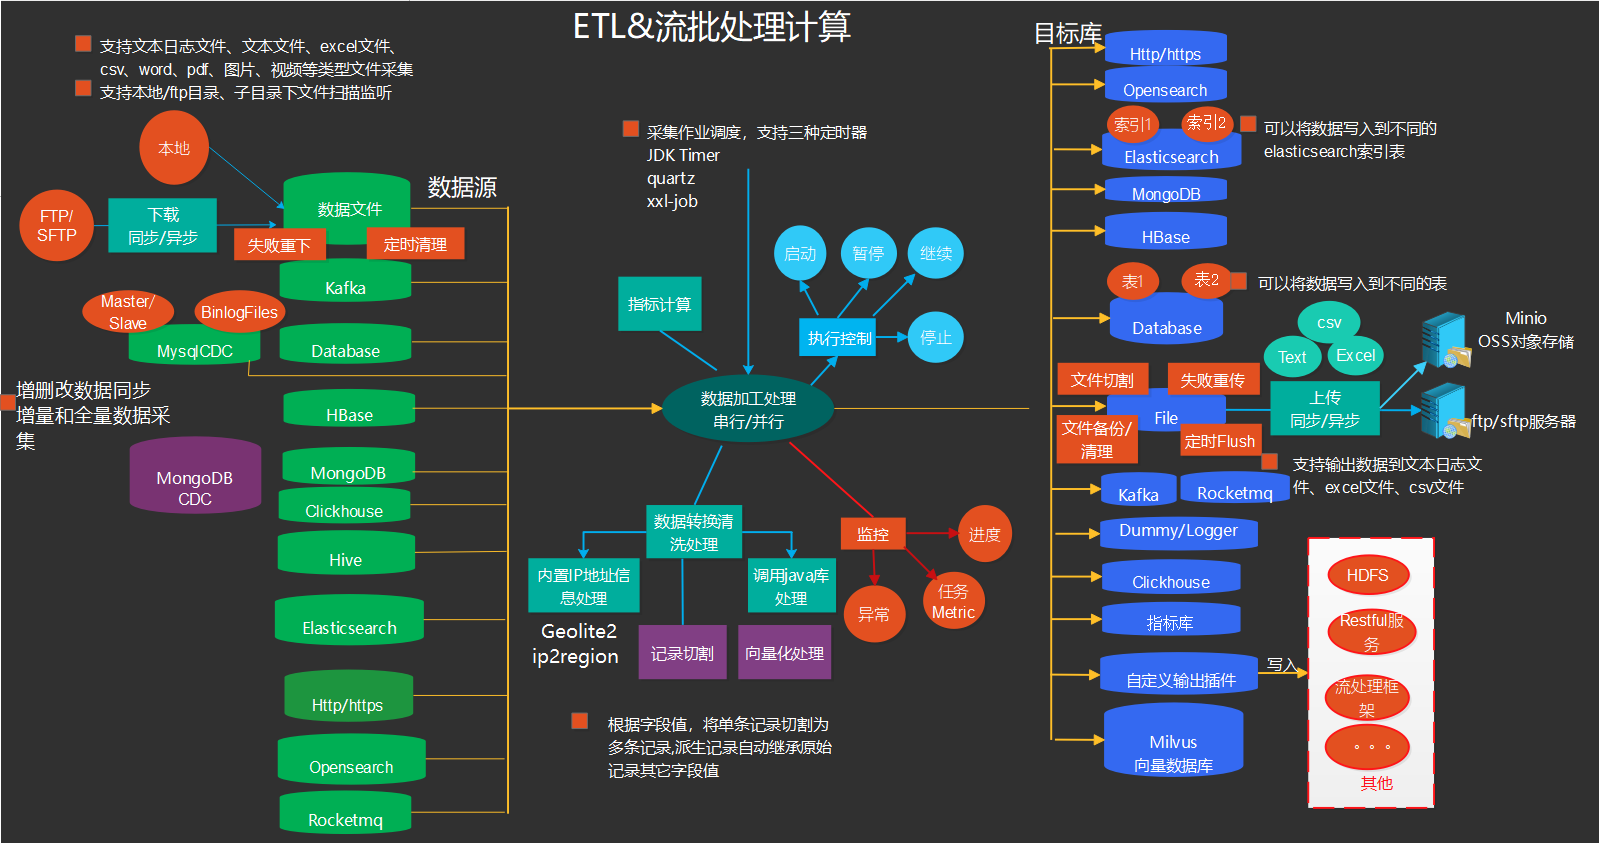
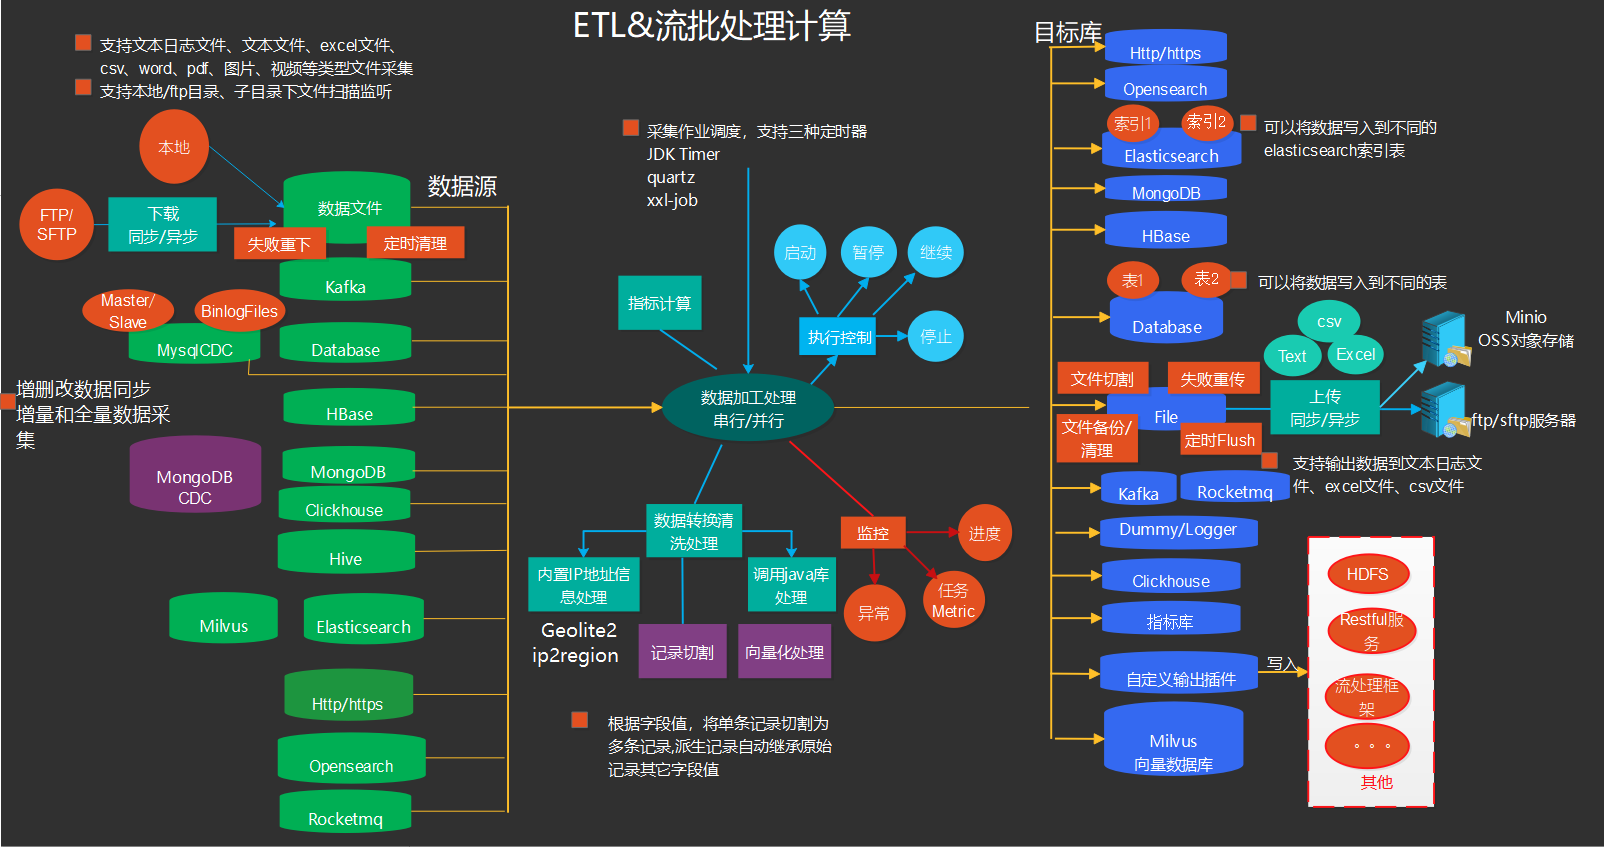
http proxy组件优化：优化监控探测连接池数量计算算法 完善文档和案例

diff --git a/docs/changelog.md b/docs/changelog.md
@@ -42,15 +42,17 @@
 ```
 
 ETL插件依赖的maven坐标，参考文档：[在工程中导入插件maven坐标](https://esdoc.bbossgroups.com/#/db-es-tool?id=_11-在工程中导入bboss-maven坐标)
-# v7.2.9 功能改进-20241122
+# v7.2.9 功能改进-20241125
 1. 新增Rocketmq输入插件：从Rocketmq接收数据，支持同时设置多个topic主题，指定消息消费位置等参数；数据通过加工处理后，通过其他输出插件进行输出。
 2. 新增Rocketmq输出插件：将数据源采集的数据，进行加工处理后，通过Rocketmq输出插件将处理后的数据发送到Rocketmq
-3. 完善Kafka输入输出插件：完善kafk输入输出插件，不注册jvm shutdown hook
-4. 完善kafka输入插件：增加消息元数据信息
-5. 调小http链接池健康检查数据源连接池大小
-6. 指标计算改进：新增指标key对象MetricKey,相关接口将String metricKey调整为MetricKey metricKey，调整相关案例代码 
-7. 项目和案例源码jdk 18+兼容性调整，兼容jdk 18+版本 
-8. Gradle构建脚本兼容性调整，兼容gradle 8+版本
+3. 增加Milvus输入插件：支持全量或者增量从向量数据库Milvus采集同步数据到其他Milvus库，或者其他数据源 
+4. 完善Kafka输入输出插件：完善kafk输入输出插件，不注册jvm shutdown hook 
+5. 完善kafka输入插件：增加消息元数据信息 
+6. 调小http链接池健康检查数据源连接池大小 
+7. 指标计算改进：新增指标key对象MetricKey,相关接口将String metricKey调整为MetricKey metricKey，调整相关案例代码 
+8. 项目和案例源码jdk 18+兼容性调整，兼容jdk 18+版本 
+9. Gradle构建脚本兼容性调整，兼容gradle 8+版本 
+10. 增加Rocketmq客户端组件，使用参考文档：https://doc.bbossgroups.com/#/Rocketmq
 
 # v7.2.8 功能改进-20241102
 1. 数据交换功能扩展：增加向量数据库Milvus输出插件，支持在数据处理时，调用向量模型服务，对数据进行向量化处理，通过向量库Milvus输出插件保存向量化处理结果。

diff --git a/docs/datatran-plugins.md b/docs/datatran-plugins.md
@@ -1689,6 +1689,36 @@ importBuilder.setOutputConfig(customOutputConfig);
 
 https://gitee.com/bboss/bboss-datatran-demo/blob/main/src/main/java/org/frameworkset/datatran/imp/rocketmq/Rockemq2Custom.java
 
+## 1.15 向量数据库Milvus输入插件
+
+Milvus输入插件:[MilvusInputConfig](https://gitee.com/bboss/bboss-elastic-tran/blob/master/bboss-datatran-milvus/src/main/java/org/frameworkset/tran/plugin/milvus/input/MilvusInputConfig.java)，Milvus服务器参数配置、向量表名称、数据查询条件、召回字段清单以及认证参数设置等。
+
+Milvus向量库输入插件支持全量或者增量从Milvus采集同步数据到其他Milvus库，或者其他数据源。
+
+### 1.15.1 使用案例
+
+Milvus输入插件使用案例：
+
+```java
+/**
+		 * Milvus相关配置
+		 */
+        String[] array = {"log_id","collecttime","log_content","content"};//定义要返回的字段清单
+		MilvusInputConfig milvusInputConfig = new MilvusInputConfig();
+		milvusInputConfig.setName("ucr_chan")  //使用之前定义的向量数据库数据源，无需设置向量数据库地址和名称以及token等信息
+                             .setDbName("ucr_chan")
+                            .setExpr("log_id < 100000")//指定过滤条件，可以进行条件组合，具体参考文档：https://milvus.io/api-reference/java/v2.4.x/v2/Vector/search.md
+                             .setUri("http://172.24.176.18:19530")
+                            .setOutputFields(Arrays.asList(array))
+                             .setToken("")
+                             .setCollectionName("demo");
+		importBuilder.setInputConfig(milvusInputConfig);
+```
+
+### 1.15.2 完整案例代码
+
+https://gitee.com/bboss/bboss-datatran-demo/blob/main/src/main/java/org/frameworkset/datatran/imp/milvus/Milvus2CustomDemo.java
+
 # 2.输出插件
 
 ## 2.1 DB输出插件

diff --git a/docs/db-es-tool.md b/docs/db-es-tool.md
@@ -174,6 +174,7 @@ com.bbossgroups.plugins
 | [Kafka2InputConfig](https://gitee.com/bboss/bboss-elastic-tran/blob/master/bboss-datatran-kafka2x/src/main/java/org/frameworkset/tran/plugin/kafka/input/Kafka2InputConfig.java) | kafka输入插件                                                | bboss-datatran-kafka2x  | kafka消费端参数配置、主题配置、客户端消费组配置等            |
 | [Kafka1InputConfig](https://gitee.com/bboss/bboss-elastic-tran/blob/master/bboss-datatran-kafka1x/src/main/java/org/frameworkset/tran/plugin/kafka/input/Kafka1InputConfig.java) | 低版本kafka输入插件                                          | bboss-datatran-kafka1x  | 低版本kafka消费端参数配置、主题配置、客户端消费组配置等（不推荐使用，建议升级到kafka 2x版本） |
 | [RocketmqInputConfig](https://gitee.com/bboss/bboss-elastic-tran/blob/master/bboss-datatran-rocketmq/src/main/java/org/frameworkset/tran/plugin/rocketmq/input/RocketmqInputConfig.java) | Rocketmq输入插件                                             | bboss-datatran-rocketmq | Rocketmq消费端参数配置、主题配置、客户端消费组配置等         |
+| [MilvusInputConfig](https://gitee.com/bboss/bboss-elastic-tran/blob/master/bboss-datatran-milvus/src/main/java/org/frameworkset/tran/plugin/milvus/input/MilvusInputConfig.java) | Milvus输入插件                                               | bboss-datatran-milvus   | Milvus向量库输入插件，支持全量或者增量从Milvus采集同步数据到其他Milvus库，或者其他数据源 |
 
 ## 输出插件
 

diff --git a/docs/bboss-datasyn-demo.md b/docs/bboss-datasyn-demo.md
@@ -492,6 +492,14 @@ http服务端实现：一个简单的rest服务（http input输出插件支持po
 
 # 21 数据向量化处理及Milvus向量数据库对接案例
 
+## 21.1 输入插件案例
+
+https://gitee.com/bboss/bboss-datatran-demo/blob/main/src/main/java/org/frameworkset/datatran/imp/milvus/Milvus2CustomDemo.java
+
+使用参考文档：[milvus 向量数据库输入插件](https://esdoc.bbossgroups.com/#/datatran-plugins?id=_115-%e5%90%91%e9%87%8f%e6%95%b0%e6%8d%ae%e5%ba%93milvus%e8%be%93%e5%85%a5%e6%8f%92%e4%bb%b6)
+
+## 21.2 输出插件案例
+
 调用的 Langchain-Chatchat 封装的 xinference 发布的模型服务
 
 https://gitee.com/bboss/bboss-datatran-demo/blob/main/src/main/java/org/frameworkset/datatran/imp/milvus/Db2Milvusdemo.java
